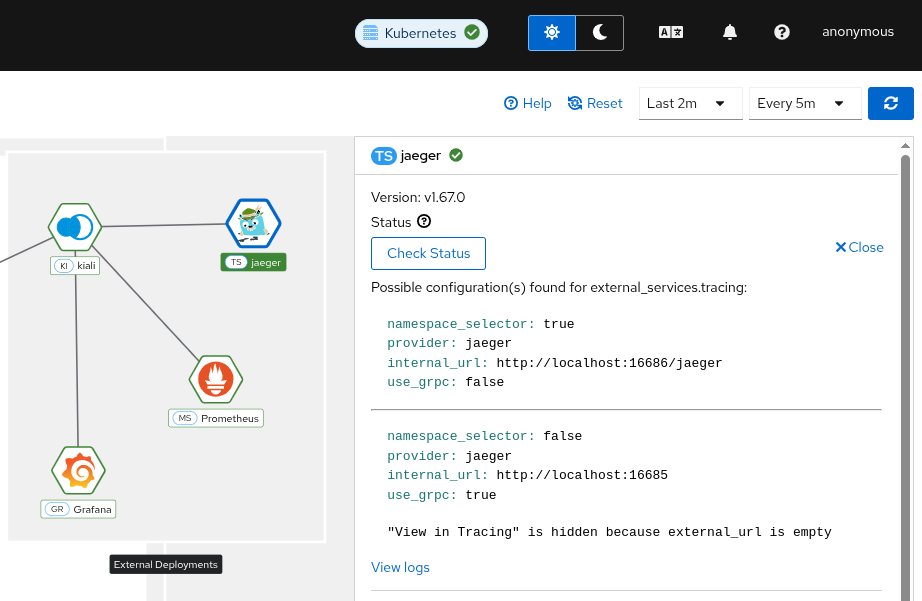
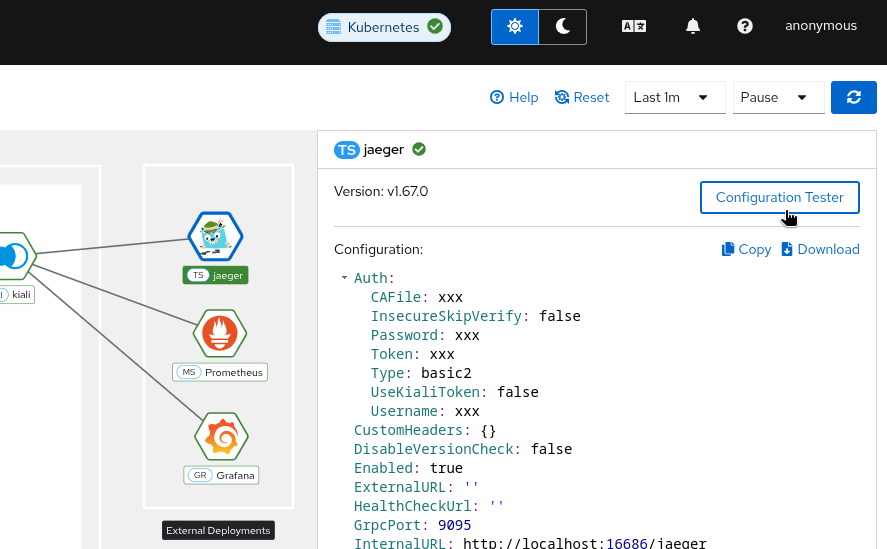
Update tracing docs

diff --git a/content/en/docs/Configuration/debugging-kiali.md b/content/en/docs/Configuration/debugging-kiali.md
@@ -213,15 +213,25 @@ The traces emitted by Kiali can be searched in the _Kiali_ workload:
 
 ### Tracing Integration
 
-Sometimes integration with tracing can be complex, but since version 2.11, a tool is available to help discover possible open ports and configurations that might work. It's available on the mesh page, by clicking on the tracing node. From there, under "Check status," it will suggest possible configuration combinations.
-
-It's important that at least the URL is properly defined - `external_services.tracing.internal_url` if it's inside the cluster, or `external_services.tracing.external_url` if it's outside.
+Sometimes integration with tracing can be complex, but since version 2.11, a tool is available to help with the configuration.
+It's available on the mesh page, by clicking on the tracing node. From there, under "Configuration Tester," it will show 2 different features: 
 
 ![Tracing tool](/images/documentation/configuration/tracing_tool.png)
 
-The `View logs` link will provide more insights about the tests done, the open ports, the errors found, that can help to troubleshoot in case of more complex scenarios, like urls with tenant configurations or https.
+* Discovery tool 
+* Configuration tester
 
-![Tracing tool logs](/images/documentation/configuration/tracing_tool_logs.png)
+The discovery feature will show possible valid configurations that might work based on the tracing open ports. 
+It's important that at least the URL is properly defined - `external_services.tracing.internal_url` if it's inside the cluster, or `external_services.tracing.external_url` if it's outside.
+
+The `logs` section will provide more insights about the tests done, the open ports, the errors found, that can help to troubleshoot in case of more complex scenarios, like urls with tenants or https.
+
+![Tracing discovery](/images/documentation/configuration/tracing_discovery.png)
+
+The configuration tester allows to test a specific configuration without having to edit the config map and wait for the Kiali pod to be restarted. 
+Please note that the configuration will not be saved permanently. 
+
+![Tracing configuration tester](/images/documentation/configuration/configuration_tester.png)
 
 ## Profiler
 

diff --git a/content/en/docs/FAQ/distributed-tracing.md b/content/en/docs/FAQ/distributed-tracing.md
@@ -164,3 +164,11 @@ tracing:
 ```
 
 For further Tempo configuration options, take a look at the [Tempo configuration page]({{< ref "/docs/configuration/p8s-jaeger-grafana/tracing/tempo" >}})
+
+### How do I modify the trace limit?
+
+The trace limit can be changed from the UI, and it is available as a Display menu option: 
+
+![Trace limit](/images/documentation/faq/tracing/trace_limit.png)
+
+The default value (Set to 100) can be modified in the Kiali CR setting `kiali_feature_flags.ui_defaults.tracing.limit`. 

diff --git a/content/en/docs/Configuration/p8s-jaeger-grafana/tracing/tempo.md b/content/en/docs/Configuration/p8s-jaeger-grafana/tracing/tempo.md
@@ -22,7 +22,7 @@ weight: 2
 - [Tempo tuning](#tempo-tuning) 
   - [Resources consumption](#resources-consumption) 
   - [Caching](#caching)
-  - [Resources consumption](#tune-search-pipeline)
+  - [Tune search pipeline](#tune-search-pipeline)
   - [Dedicated attribute columns](#dedicated-attribute-columns)
 - [Tempo cache](#tempo-cache)
 - [Tempo authentication configuration](#tempo-authentication-configuration)
